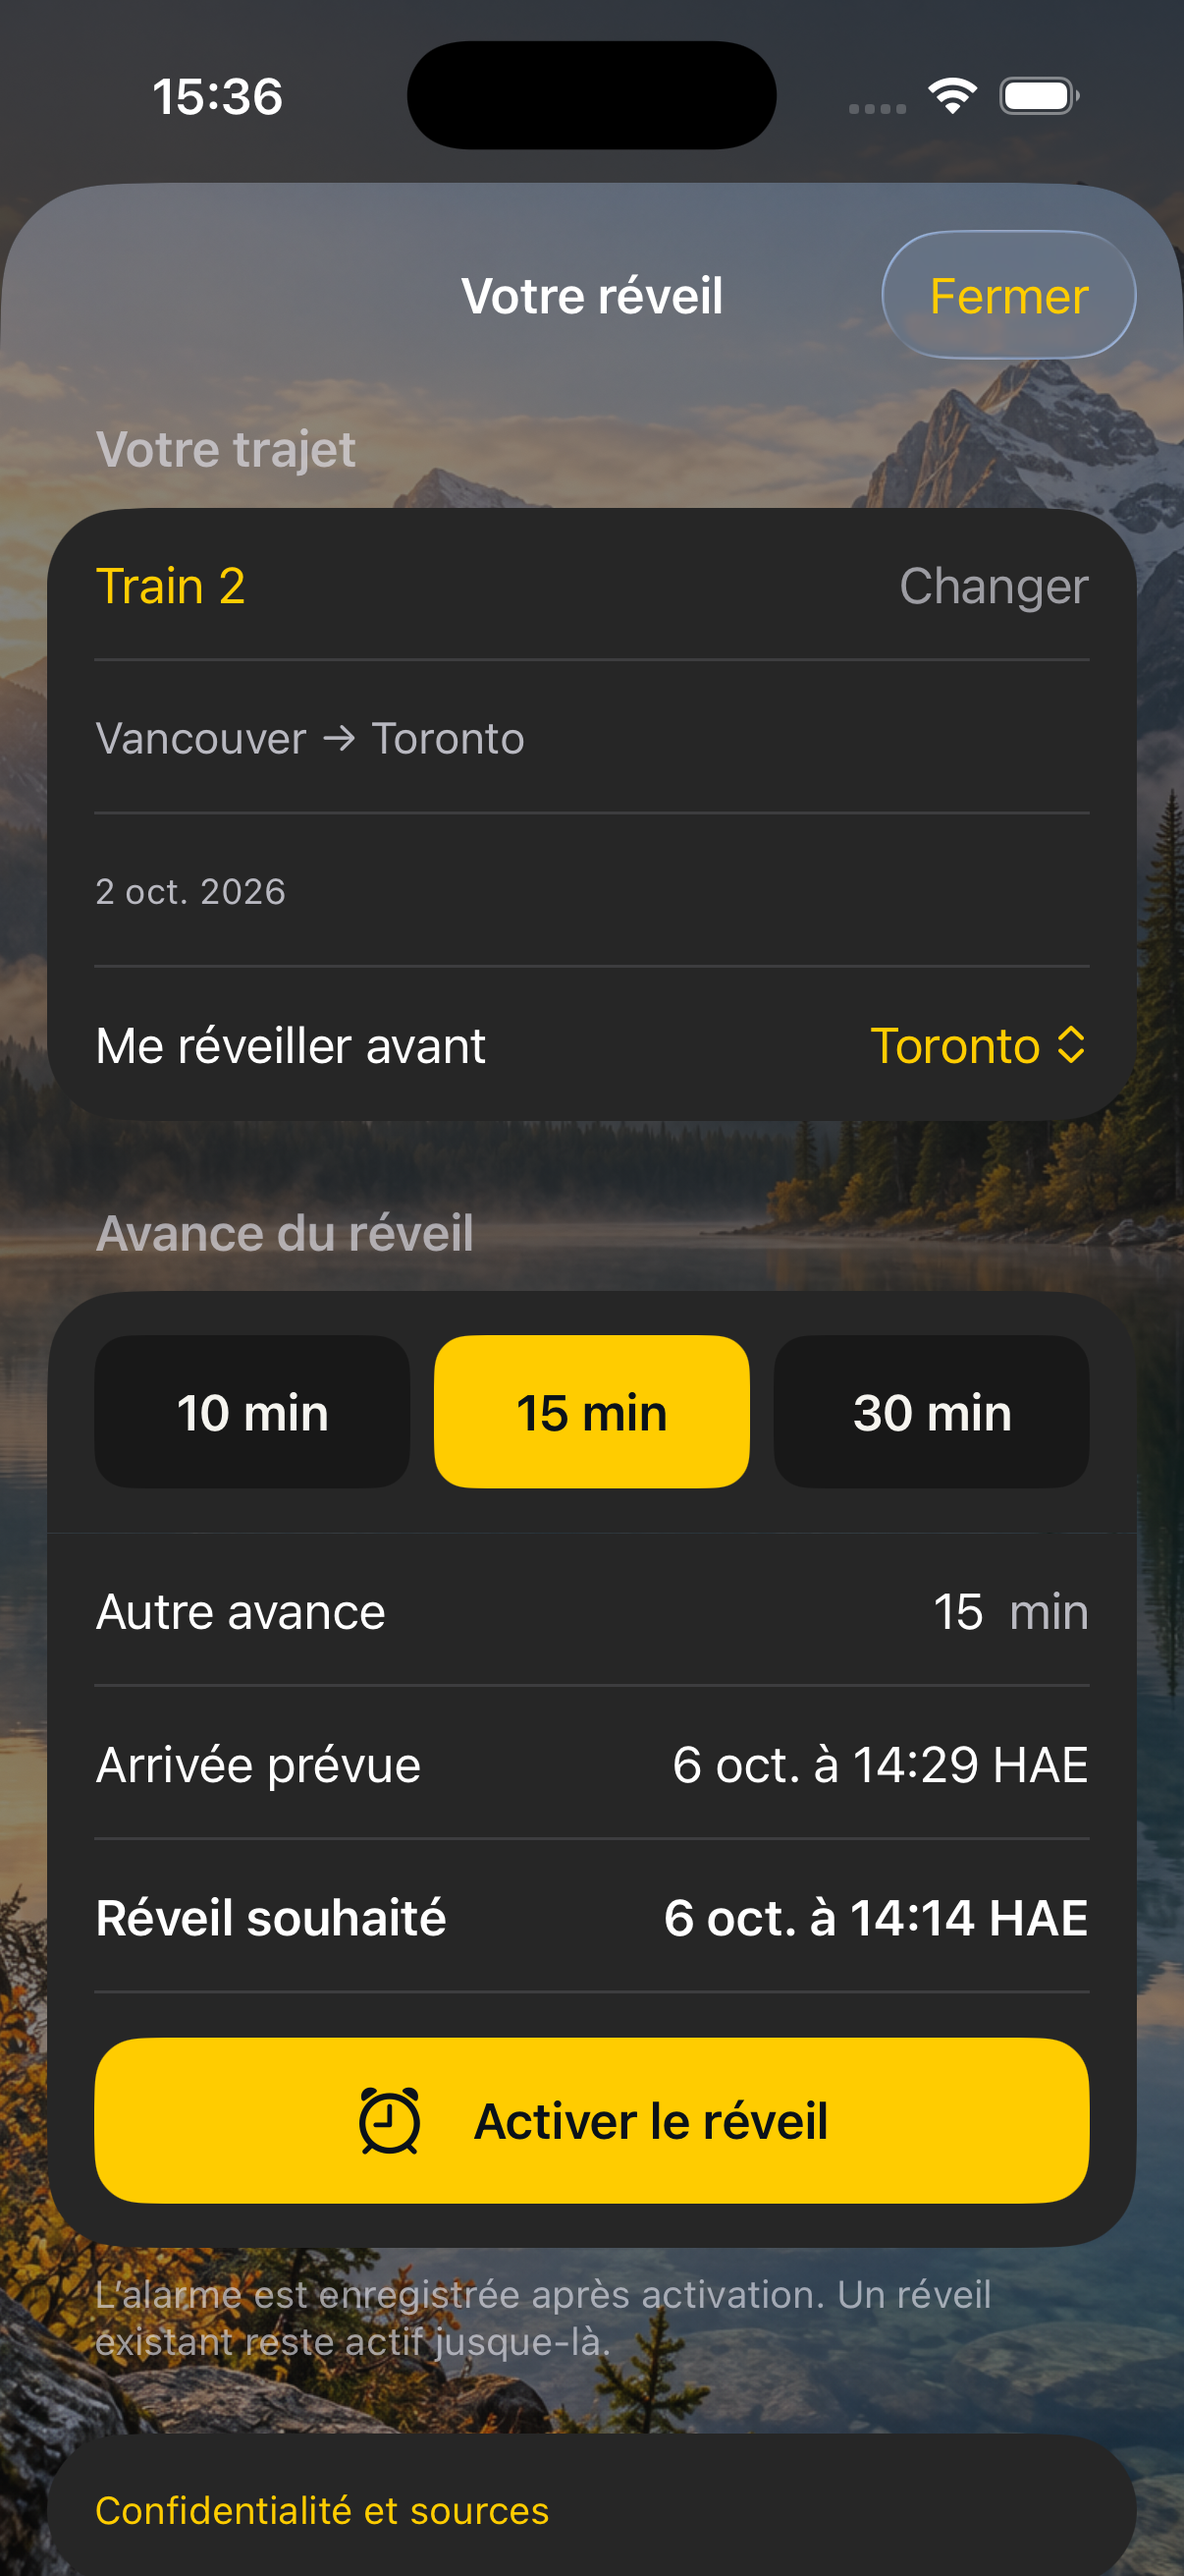
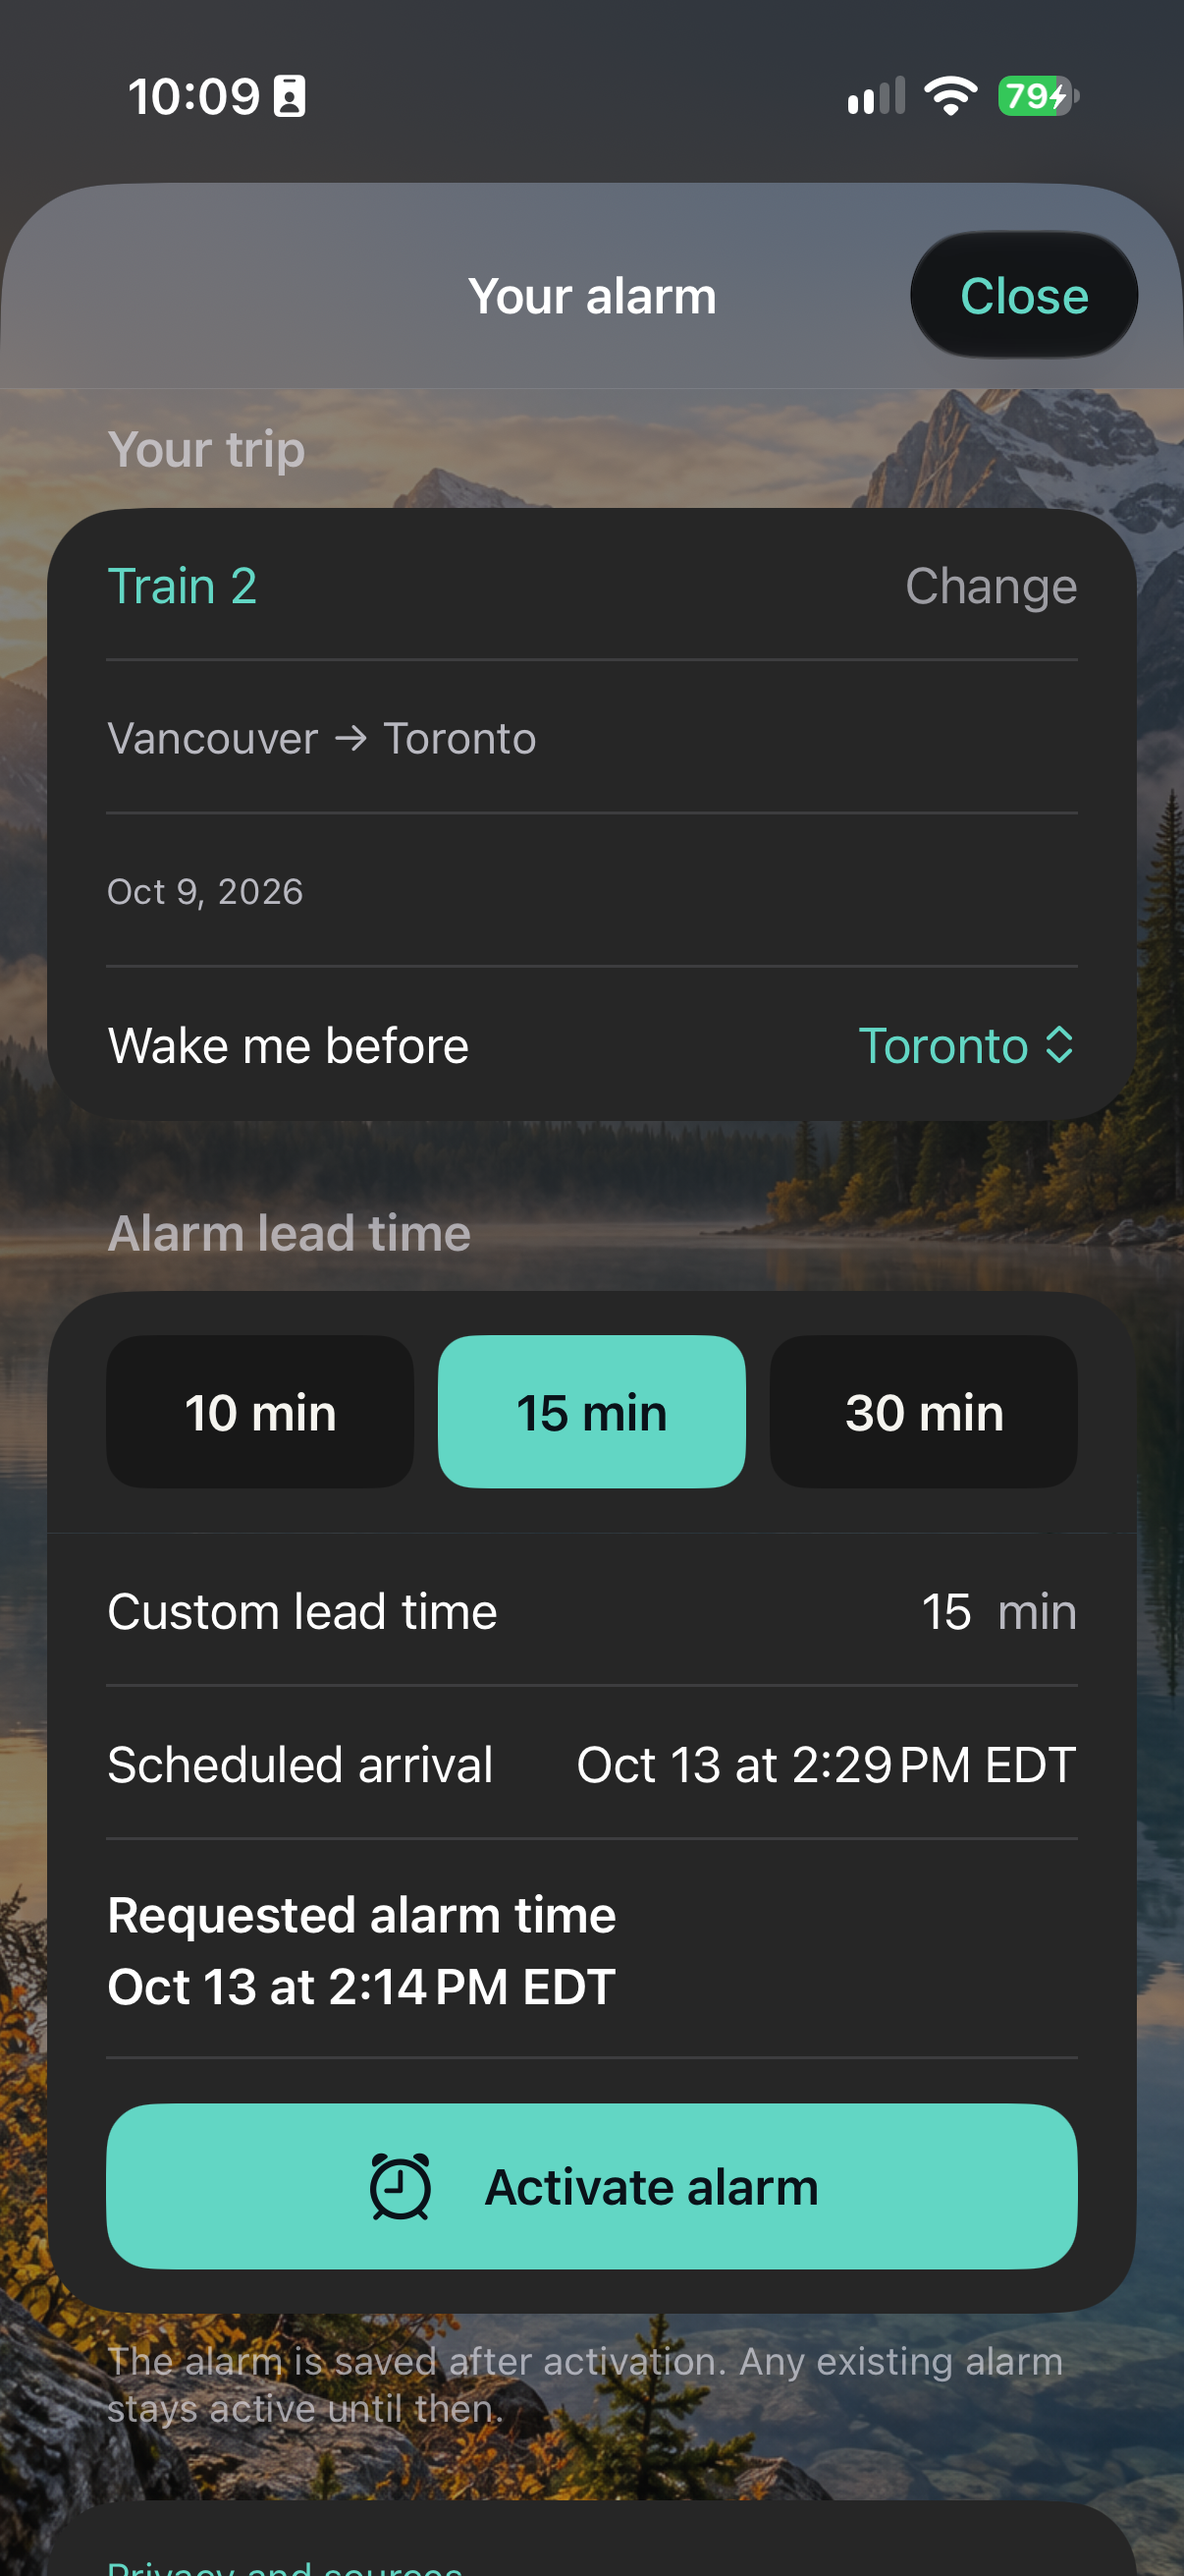
Rebrand app as RailNap and center welcome screen

diff --git a/ios/App/DashboardView.swift b/ios/App/DashboardView.swift
@@ -7,24 +7,26 @@ struct DashboardView: View {
 
     var body: some View {
         NavigationStack {
-            ScrollView {
-                VStack(spacing: model.trackedJourney == nil ? 24 : 10) {
-                    if let journey = model.trackedJourney {
-                        activeJourney(journey)
-                    } else {
-                        ViaCompanionBanner()
-                        emptyState
+            GeometryReader { geometry in
+                ScrollView {
+                    VStack(spacing: model.trackedJourney == nil ? 24 : 10) {
+                        if let journey = model.trackedJourney {
+                            activeJourney(journey)
+                        } else {
+                            emptyState
+                        }
                     }
+                    .padding(.horizontal, 20)
+                    .padding(.vertical, 12)
+                    .frame(maxWidth: 560)
+                    .frame(maxWidth: .infinity,
+                           minHeight: model.trackedJourney == nil ? geometry.size.height : nil)
                 }
-                .padding(.horizontal, 20)
-                .padding(.vertical, 12)
-                .frame(maxWidth: 560)
-                .frame(maxWidth: .infinity)
+                .background { CanadianNatureBackground() }
+                .refreshable { await model.load() }
             }
-            .background { CanadianNatureBackground() }
-            .navigationTitle(String(localized: "Réveil VIA"))
+            .navigationTitle(String(localized: "RailNap"))
             .navigationBarTitleDisplayMode(.inline)
-            .refreshable { await model.load() }
         }
     }
 
@@ -148,32 +150,6 @@ struct CanadianNatureBackground: View {
         }
         .ignoresSafeArea()
         .accessibilityHidden(true)
-    }
-}
-
-/// The generated landscape is bundled for offline use.
-struct ViaCompanionBanner: View {
-    var body: some View {
-        VStack(alignment: .leading, spacing: 0) {
-            Image("CanadianNature")
-                .resizable()
-                .scaledToFill()
-                .frame(maxWidth: .infinity)
-                .frame(height: 180)
-                .clipped()
-                .accessibilityHidden(true)
-            VStack(alignment: .leading, spacing: 4) {
-                Text("VIA Rail Canada")
-                    .font(.title3.weight(.bold))
-                Text(String(localized: "Votre compagnon de voyage"))
-                    .font(.subheadline)
-            }
-            .foregroundStyle(Color(red: 0.12, green: 0.12, blue: 0.12))
-            .padding(.horizontal, 20).padding(.vertical, 16)
-            .frame(maxWidth: .infinity, alignment: .leading)
-            .background(Color("WakeGold"))
-        }
-        .clipShape(RoundedRectangle(cornerRadius: 20))
     }
 }
 

diff --git a/ios/LiveActivity/ReveilVIALiveActivity.swift b/ios/LiveActivity/ReveilVIALiveActivity.swift
@@ -3,7 +3,7 @@ import SwiftUI
 import WidgetKit
 
 @main struct ReveilVIALiveActivity: Widget {
-    private let gold = Color(red: 1, green: 0.8, blue: 0)
+    private let gold = Color(red: 0.384, green: 0.839, blue: 0.769)
 
     private func localTime(_ date: Date, state: TripActivityAttributes.ContentState,
                            format: String = "jm") -> String {
@@ -32,7 +32,7 @@ import WidgetKit
                 HStack {
                     Label(String(localized: "Train \(String(context.attributes.train))"), systemImage: "tram.fill")
                     Spacer()
-                    Label(String(localized: "Réveil VIA"), systemImage: "alarm.fill")
+                    Label(String(localized: "RailNap"), systemImage: "alarm.fill")
                 }
                 .font(.caption.weight(.semibold)).foregroundStyle(gold)
                 HStack(alignment: .top, spacing: 12) {

diff --git a/ios/App/TripActivityController.swift b/ios/App/TripActivityController.swift
@@ -59,7 +59,7 @@ import UIKit
                 record("updated", detail: existing.id)
             } else if UIApplication.shared.applicationState == .active {
                 guard ActivityAuthorizationInfo().areActivitiesEnabled else {
-                    message = String(localized: "Activités en direct désactivées : activez-les dans les réglages de Réveil VIA pour afficher le réveil sur l’écran verrouillé.")
+                    message = String(localized: "Activités en direct désactivées : activez-les dans les réglages de RailNap pour afficher le réveil sur l’écran verrouillé.")
                     record("disabled")
                     continue
                 }

diff --git a/ios/App/SupportViews.swift b/ios/App/SupportViews.swift
@@ -35,7 +35,7 @@ struct AppInformationView: View {
     var body: some View {
         NavigationStack {
             List {
-                Section(String(localized: "Réveil VIA")) {
+                Section(String(localized: "RailNap")) {
                     Text(String(localized: "Un compagnon de voyage indépendant pour les voyageurs de VIA Rail Canada. Cette application n’est pas une application officielle de VIA Rail."))
                     Text(String(localized: "Version \(String(Bundle.main.infoDictionary?["CFBundleShortVersionString"] as? String ?? "—")) (\(String(Bundle.main.infoDictionary?["CFBundleVersion"] as? String ?? "—")))"))
                 }

diff --git a/docs/PRIVACY.md b/docs/PRIVACY.md
@@ -1,8 +1,8 @@
-# Confidentialité — Réveil VIA
+# Confidentialité — RailNap
 
 Dernière mise à jour : 8 octobre 2026. / Last updated: October 8, 2026.
 
-Réveil VIA est une application compagnon indépendante pour les voyageurs de VIA Rail Canada, sans affiliation officielle avec VIA Rail.
+RailNap est une application compagnon indépendante pour les voyageurs de VIA Rail Canada, sans affiliation officielle avec VIA Rail.
 
 ## Données sur votre appareil
 
@@ -28,9 +28,9 @@ Apple traite les informations liées aux installations, aux diagnostics et aux c
 
 ---
 
-# Privacy — VIA Wake
+# Privacy — RailNap
 
-VIA Wake is an independent companion for VIA Rail Canada passengers. It is not affiliated with VIA Rail.
+RailNap is an independent companion for VIA Rail Canada passengers. It is not affiliated with VIA Rail.
 
 ## Data on your device
 

diff --git a/README.md b/README.md
@@ -1,4 +1,4 @@
-# VIA Wake · Réveil VIA
+# RailNap
 
 Rest easy. Keep your stop in sight.
 
@@ -7,7 +7,7 @@ An iPhone companion that helps you set an alarm before your VIA Rail Canada stop
 ## Screenshots
 
 <p align="center">
-  <img src="docs/screenshots/home.png" width="250" alt="VIA Wake home screen">
+  <img src="docs/screenshots/home.png" width="250" alt="RailNap home screen">
   <img src="docs/screenshots/trains.png" width="250" alt="Available VIA trains and routes">
   <img src="docs/screenshots/alarm.png" width="250" alt="Destination station and alarm lead time settings">
 </p>
